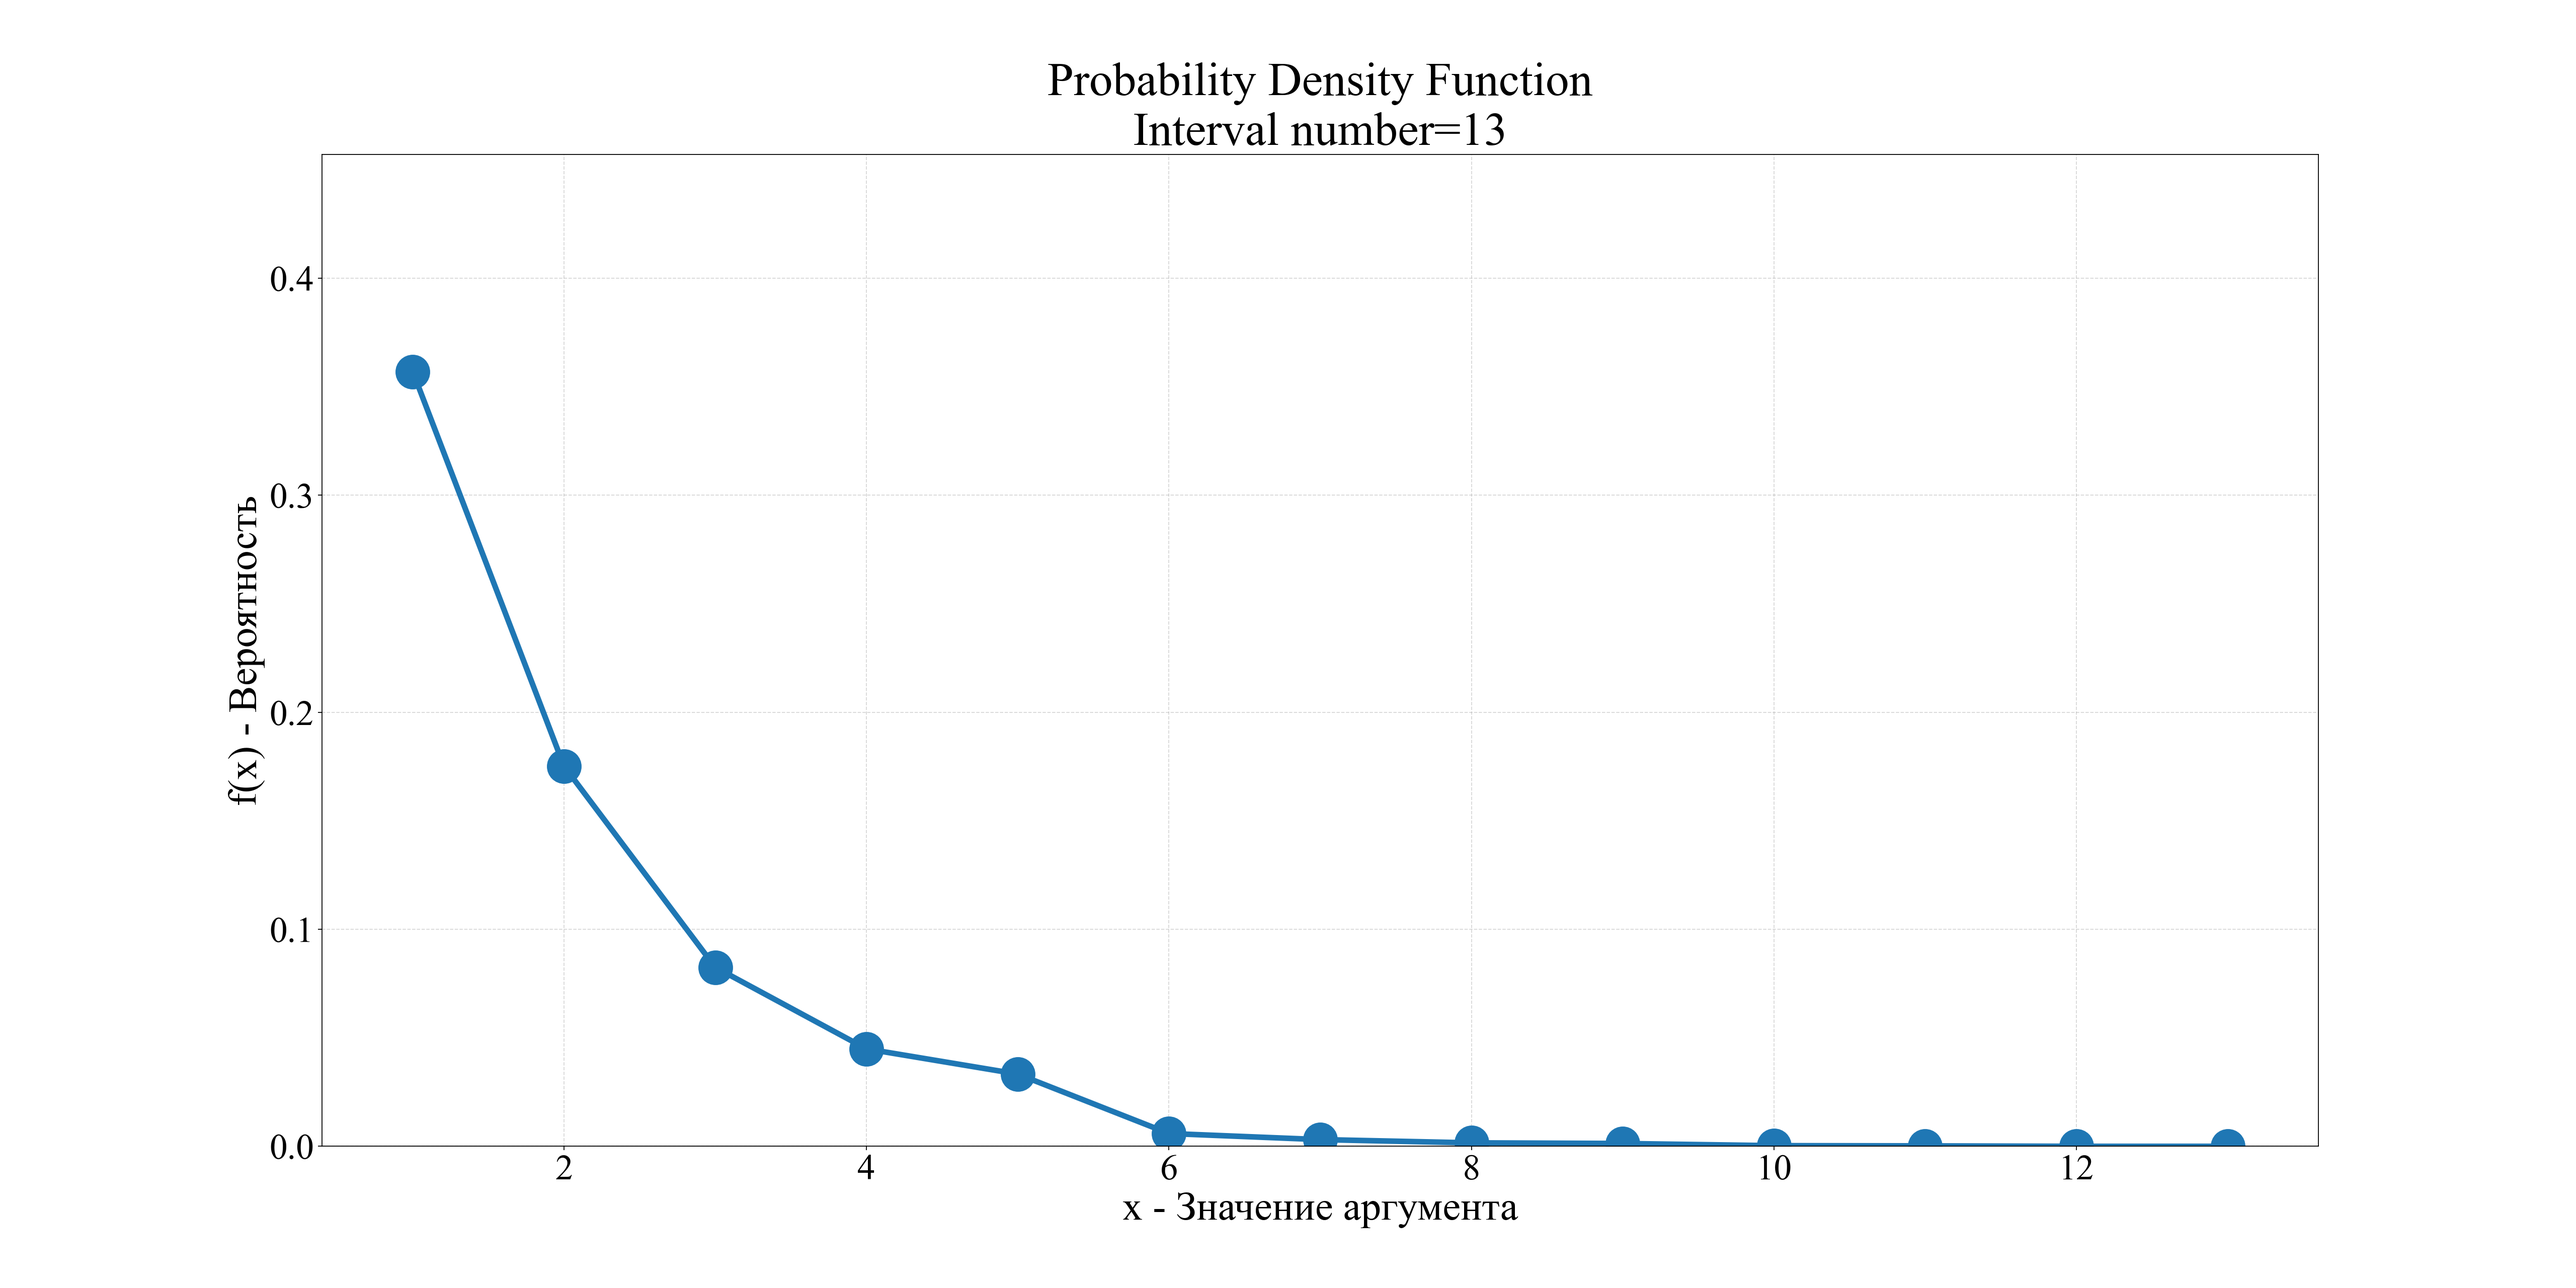
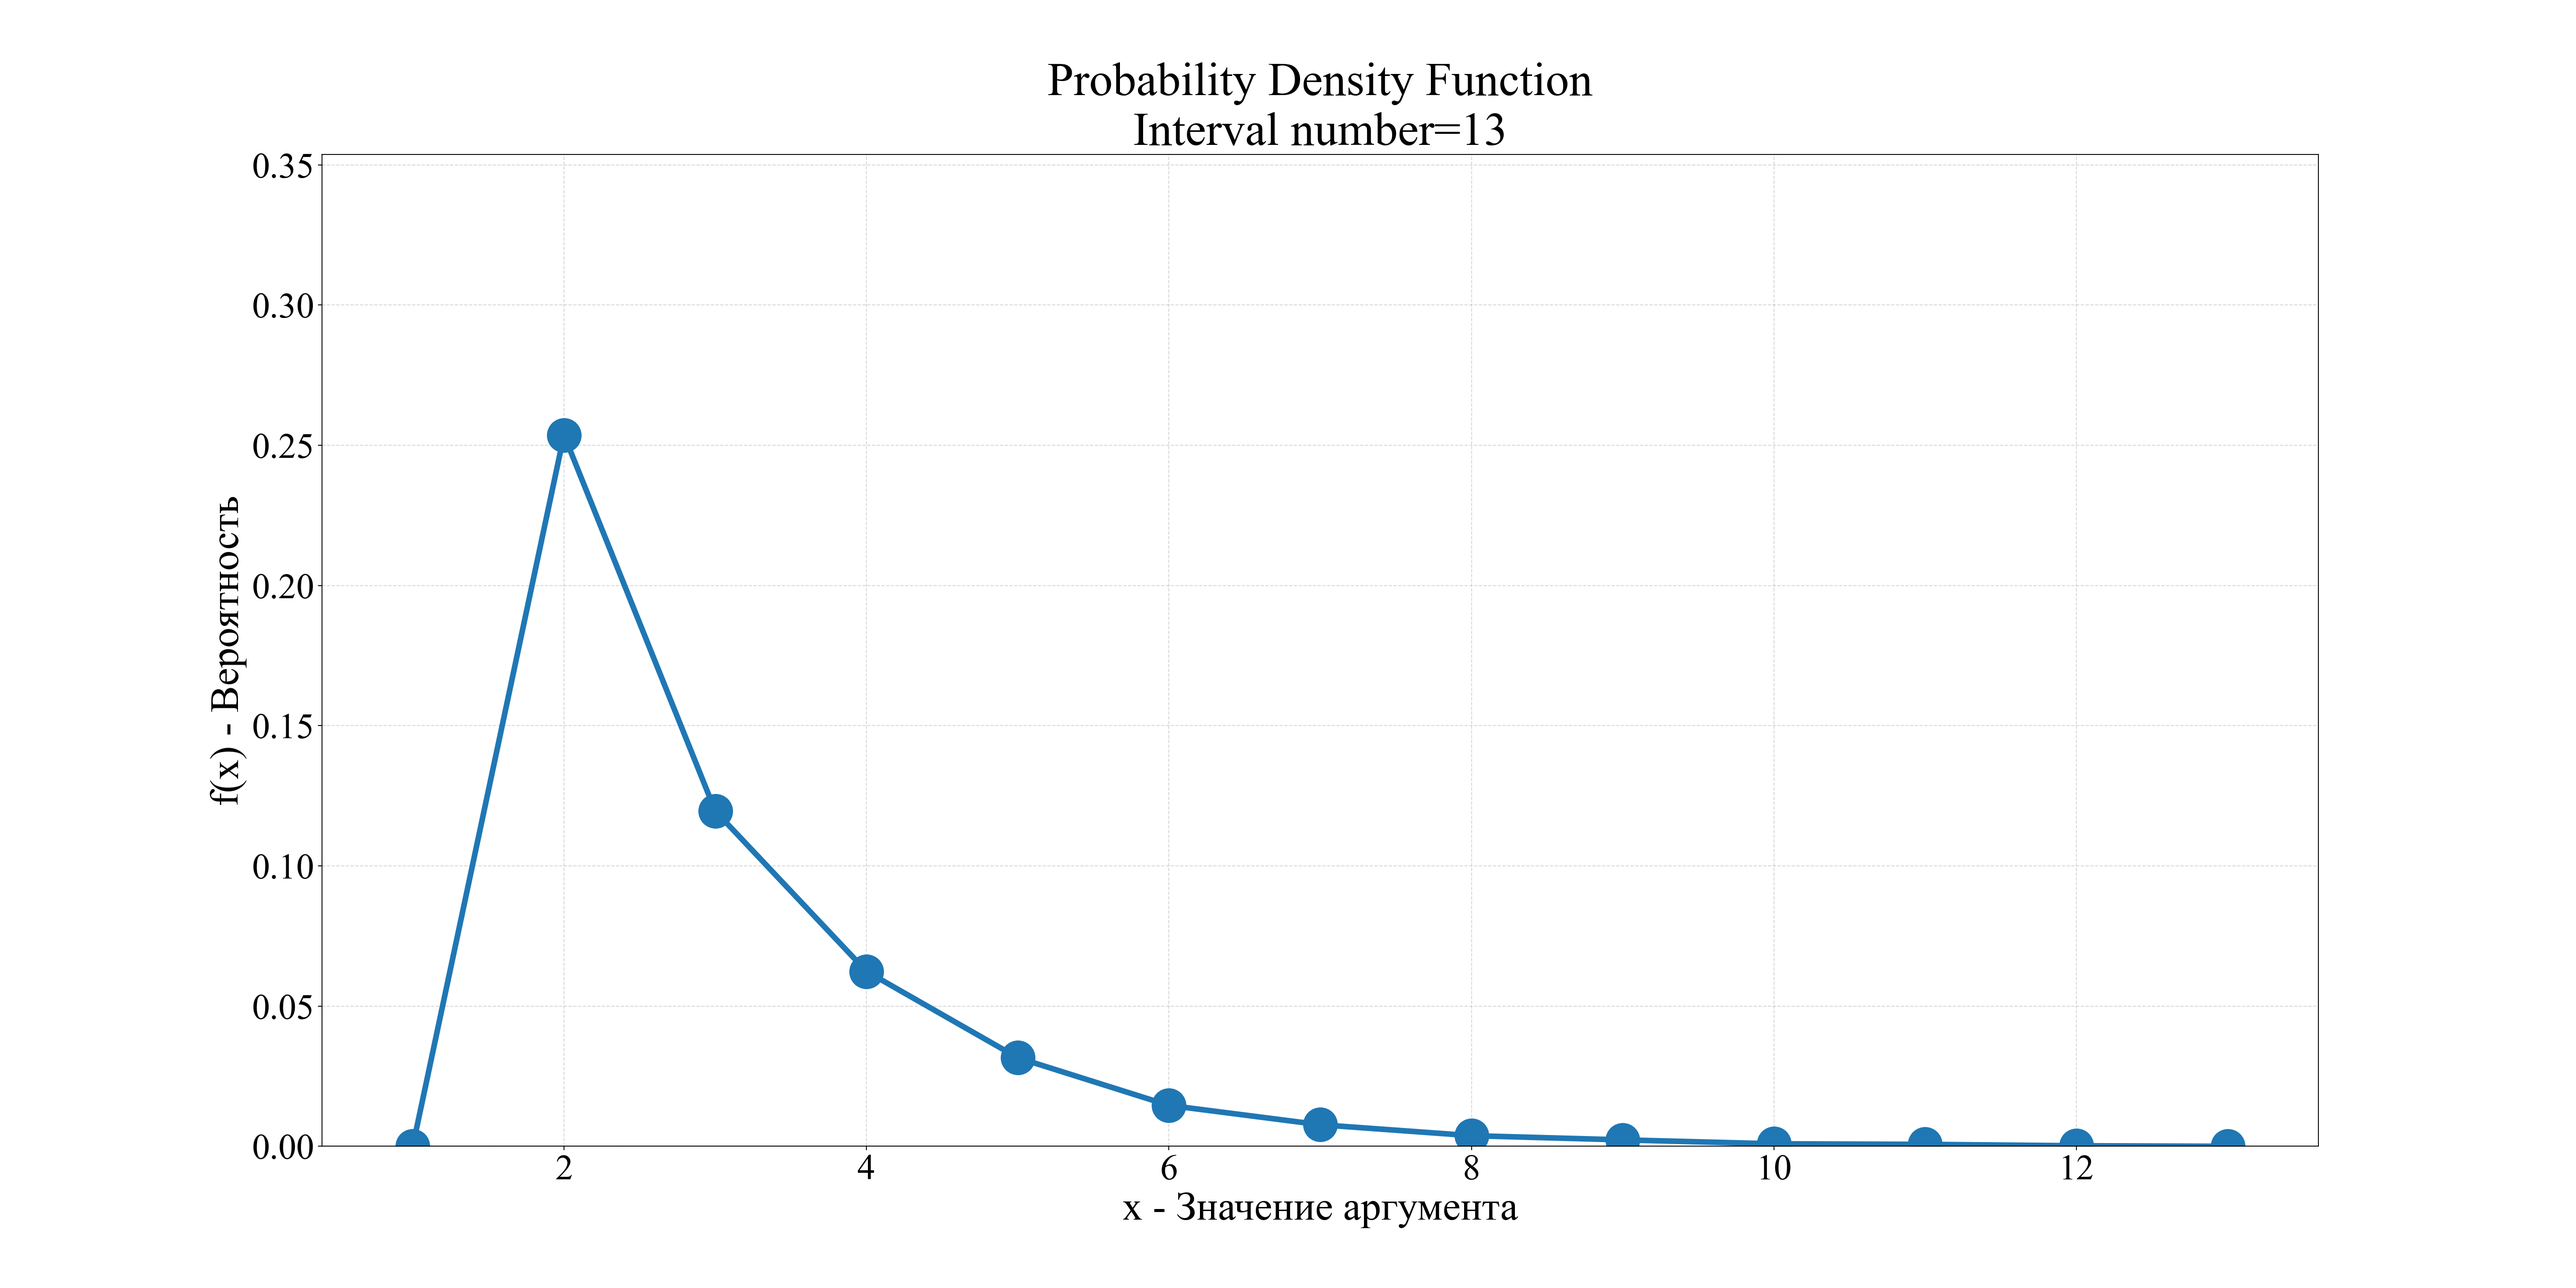
修改 lab2 中几何分布中的错误

diff --git a/002 - lab2/main.py b/002 - lab2/main.py
@@ -166,30 +166,30 @@ def poisson_distribution(arr_poisson: np.ndarray, img_save_fold: str):
 
 
 if __name__ == '__main__':
-    # 【2.1】РАВНОМЕРНОЕ РАСПРЕДЕЛЕНИЕ (дискретное)
-    uniform_distribution()
-
-    # 【2.2】БИНОМИАЛЬНОЕ РАСПРЕДЕЛЕНИЕ
-    binomial_distribution()
-
-    # 【2.3.1】ГЕОМЕТРИЧЕСКОЕ РАСПРЕДЕЛЕНИЕ (Алгоритм 1)
-    geometric_distribution(arr_geometric=irandom.irngeo_1(p=0.5, size=10000),
-                           img_save_fold='./result/【2.3.1】Geometric distribution/')
-
-    # 【2.3.2】ГЕОМЕТРИЧЕСКОЕ РАСПРЕДЕЛЕНИЕ (Алгоритм 2)
-    geometric_distribution(arr_geometric=irandom.irngeo_2(p=0.5, size=10000),
-                           img_save_fold='./result/【2.3.2】Geometric distribution/')
-
+    # # 【2.1】РАВНОМЕРНОЕ РАСПРЕДЕЛЕНИЕ (дискретное)
+    # uniform_distribution()
+    #
+    # # 【2.2】БИНОМИАЛЬНОЕ РАСПРЕДЕЛЕНИЕ
+    # binomial_distribution()
+    #
+    # # 【2.3.1】ГЕОМЕТРИЧЕСКОЕ РАСПРЕДЕЛЕНИЕ (Алгоритм 1)
+    # geometric_distribution(arr_geometric=irandom.irngeo_1(p=0.5, size=10000),
+    #                        img_save_fold='./result/【2.3.1】Geometric distribution/')
+    #
+    # # 【2.3.2】ГЕОМЕТРИЧЕСКОЕ РАСПРЕДЕЛЕНИЕ (Алгоритм 2)
+    # geometric_distribution(arr_geometric=irandom.irngeo_2(p=0.5, size=10000),
+    #                        img_save_fold='./result/【2.3.2】Geometric distribution/')
+    #
     # 【2.3.3】ГЕОМЕТРИЧЕСКОЕ РАСПРЕДЕЛЕНИЕ (Алгоритм 3)
     geometric_distribution(arr_geometric=irandom.irngeo_3(p=0.5, size=10000),
                            img_save_fold='./result/【2.3.3】Geometric distribution/')
-
-    # 【2.4.1】РАСПРЕДЕЛЕНИЕ ПУАССОНА (Алгоритм 1)
-    poisson_distribution(arr_poisson=irandom.irnpoi(mu=10, size=10000),
-                         img_save_fold='./result/【2.4.1】Poisson distribution/')
-
-    # 【2.4.2】РАСПРЕДЕЛЕНИЕ ПУАССОНА (Алгоритм 2)
-    poisson_distribution(arr_poisson=irandom.irnpsn(mu=10, size=10000),
-                         img_save_fold='./result/【2.4.2】Poisson distribution/')
+    #
+    # # 【2.4.1】РАСПРЕДЕЛЕНИЕ ПУАССОНА (Алгоритм 1)
+    # poisson_distribution(arr_poisson=irandom.irnpoi(mu=10, size=10000),
+    #                      img_save_fold='./result/【2.4.1】Poisson distribution/')
+    #
+    # # 【2.4.2】РАСПРЕДЕЛЕНИЕ ПУАССОНА (Алгоритм 2)
+    # poisson_distribution(arr_poisson=irandom.irnpsn(mu=10, size=10000),
+    #                      img_save_fold='./result/【2.4.2】Poisson distribution/')
 
     pass

diff --git a/002 - lab2/irandom.py b/002 - lab2/irandom.py
@@ -127,9 +127,11 @@ def irngeo_3(p: float, size: int) -> np.ndarray:
     arr_irngeo = []
 
     for i in range(size):
-        i_uniform = np.random.uniform(low=0, high=1)
-        j = round(math.log(i_uniform) / math.log(1 - p)) + 1
+        i_uniform = np.random.uniform(low=0, high=1, size=1)
+        # j = round(math.log(i_uniform, math.e) / math.log(p, math.e) + 1)
+        j = int(math.log(i_uniform, math.e) / math.log(p, math.e) + 1)
         arr_irngeo.append(j)
+
 
     return np.array(arr_irngeo)
 
